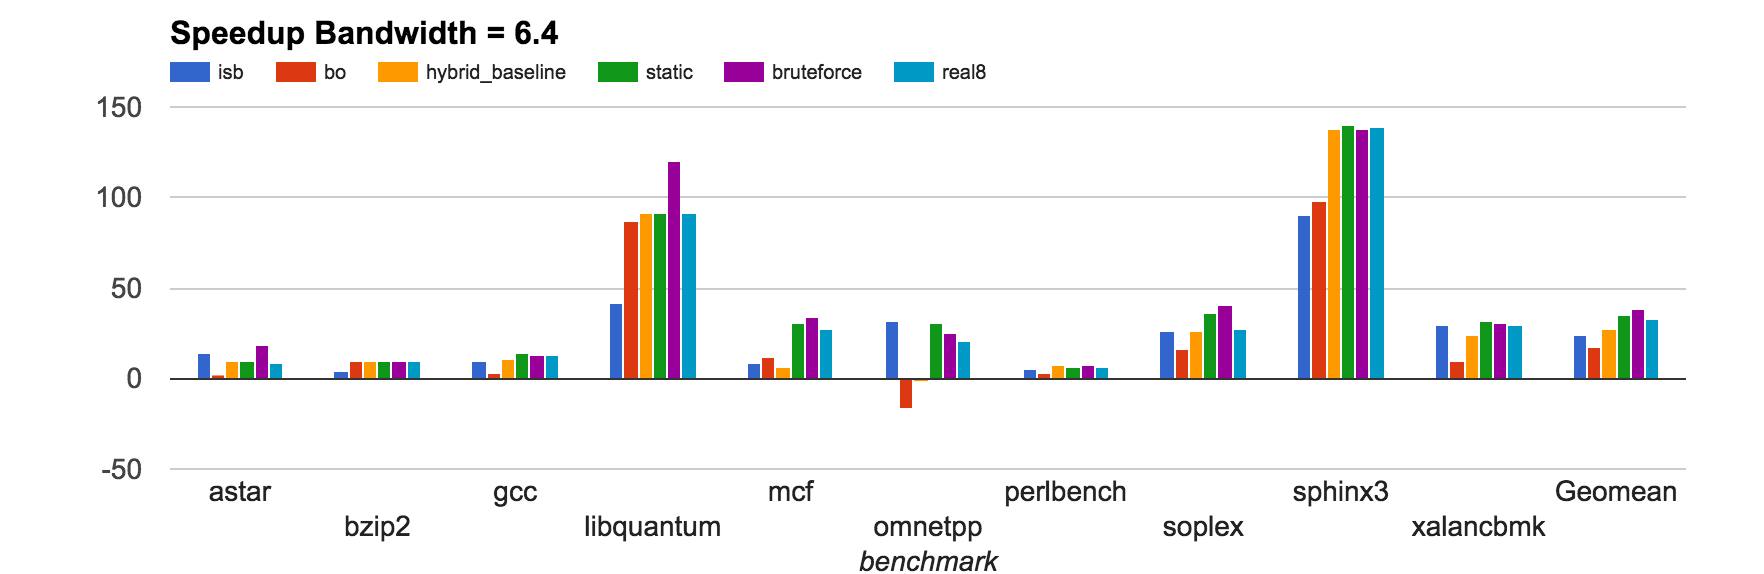
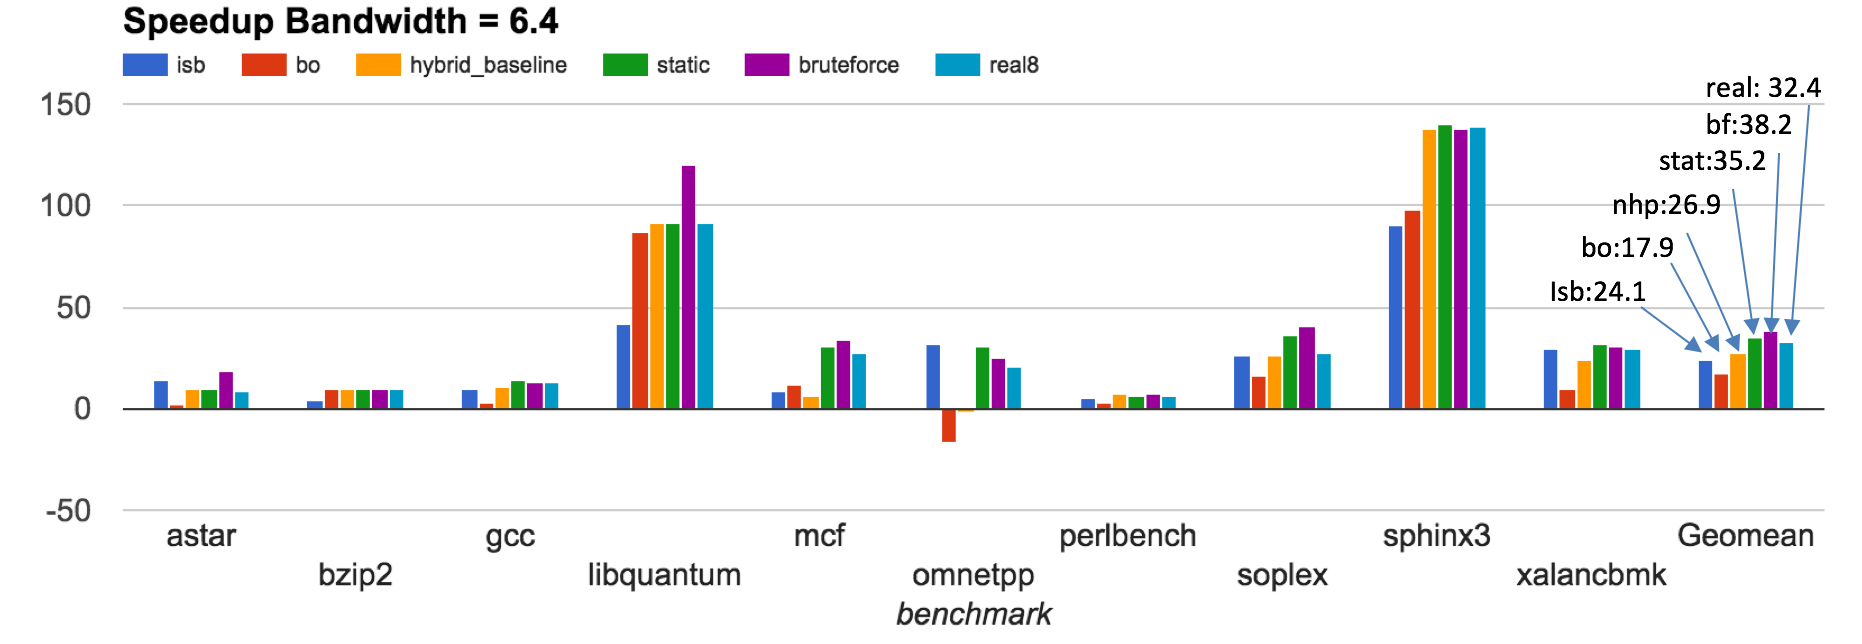
before a huge merge

Changed region(s): [[0.0, 0.0, 0.9977, 0.7108], [0.0312, 0.77, 0.9666, 1.0], [0.873, 0.2369, 0.9666, 0.2666]]

diff --git a/hybrid-prefetcher-report/section/headroom.tex b/hybrid-prefetcher-report/section/headroom.tex
@@ -1,6 +1,6 @@
 \section{Headroom Experiment}
 \label{sec:headroom}
-In this section, headroom experiment results are analyzed to guide our real hybrid prefetcher design. In section \ref{sec:headroomanalysis} we will talk about the potential of our design and the difference between two headroom test. In section \ref{sec:memorybandwidthissue}, one of the most influential factor, memory bandwidth, will be discussed in detail. Some other insights will be revealed in section \ref{sec:otherinsights}.
+In this section, headroom experiment results are analyzed to guide our dynamic hybrid prefetcher design. In section \ref{sec:headroomanalysis} we will talk about the potential of our design and the difference between two headroom test. In section \ref{sec:memorybandwidthissue}, one of the most influential factor, memory bandwidth, will be discussed in detail. Some other insights will be revealed in section \ref{sec:otherinsights}.
 
   \subsection{Headroom Result Analysis}
   \label{sec:headroomanalysis}
@@ -11,6 +11,14 @@ In this section, headroom experiment results are analyzed to guide our real hybr
 	   \caption{Headroom accuracy and coverage performance}
 	  \label{fig:headroom_acc_cov}
   \end{figure}
+
+  In Fig.\ref{fig:headroom_acc_cov}, the accuracy and coverage performance of \emph{ISB, BO, NHP, Static Analysis} and \emph{Brute Force Search}. Comparing \emph{NHP} with \emph{ISB, BO}, we found that the accuracy of \emph{NHP} is significantly lower than \emph{ISB}'s, while its coverage is higher than \emph{ISB}. It indicate that \emph{NHP} issued much more prefetches than \emph{ISB} or \emph{BO}. For \emph{static analysis} part, it achieves similar accuracy with \emph{ISB}'s, and similar coverage with \emph{NHP}'s. This is understandable since static analysis focus on static data files, making wise decisions is the only thing it can do. The \emph{Brute Force Search} method focuses on speedup most. Therefore, its accuracy and coverage performance are not as good as the static ones'. Because we use \emph{SNIPER} as our simulator, the accuracy and coverage keep the same even we change the bandwidth since no prefetch is abandoned.
+
+  Though accuracy and coverage are good metrics for evaluating prefetchers. The most import performance metric is speedup. The speedup numbers of different bandwidth are shown in Fig.\ref{fig:headroom_speedup}. Interestingly, we got results of different shapes when the bandwidth is different. \emph{ISB} has higher speedup during low bandwidth while \emph{BO} has higher during high bandwidth. The reason is that high bandwidth wouldn't give much punishment to useless prefetch while low bandwidth does. For \emph{NHP}, in both configuration it enjoys higher speedup. However, the headroom of 6.4GB/s bandwidth is more than 11\%, while only 4\% in 12.8GB/s bandwidth case. Another point worth attention is that though static method enjoys higher accuracy and coverage than the brute force one, \emph{Brute Force Search} still has better speed up. Intuitively, it is because some prefetches shouldn't have been issued by \emph{Static Analysis} due to high memory pressure at that point. The detail reason will be explained in section \ref{sec:memorybandwidthissue}.
+
+  In our later evaluation, we will choose 6.4GB/s as our bandwidth since the headroom is quite encouraging in that case.
+
+  %higher accuracy and coverage doesn't imply better speedup.
 
   \begin{figure}[ht!]
 	   \centering
@@ -24,3 +32,10 @@ In this section, headroom experiment results are analyzed to guide our real hybr
 
   \subsection{Some other insights}
   \label{sec:otherinsights}
+  Besides memory bandwidth factor, we have some other insights about these headroom experiments.
+  \begin{itemize}
+    \item Performance is input dependent. A well built benchmark set is important
+    \item The brute force experiments are not optimal, but they can still show the preference of each PC.
+    \item In the headroom experiment, PCs’ decisions are made offline and not changed during execution. And we have up to 12\% speedup headroom. If PC can make dynamic decisions, we may have more speedup.
+    \item Memory bandwidth pressure affects the prefetch performance a lot. It needs to be considered and measured in dynamic hybrid prefetching system.
+  \end{itemize}

diff --git a/hybrid-prefetcher-report/section/design.tex b/hybrid-prefetcher-report/section/design.tex
@@ -10,7 +10,7 @@
 
 Based on the introduction and motivation we demonstrated above, we design our headroom experiments and ``smart'' hybrid prefetcher system in Fig.\ref{fig:design_flow}.
 
-First, we will evaluate the individual performance of \emph{BO}, \emph{ISB} and \emph{NHP}. Note that here we measure performance using two different memory bandwidth configuration. 12.8 represents high memory bandwidth 12.8 GB/s and 6.4 represents low memory bandwidth 6.4 GB/s. The \emph{Brute Force Search} and \emph{Static Analysis} are both offline headroom designs which will be described in the following two sections. Briefly, \emph{Brute Force Search} tries each choice on each PC, and finds out the best decisions and optimal headroom. Static Analysis comes up with a heuristic. It uses the statistics of each PC from ISB, BO and naive hybrid experiments as input, and builds a strategy that makes decisions closest to \emph{Brute Force Search} thus achieves best speedup. Finally the Static Analysis guides the design of our final hybrid prefetch system.
+First, we will evaluate the individual performance of \emph{BO}, \emph{ISB} and \emph{NHP}. Note that here we measure performance using two different memory bandwidth configuration. 12.8 represents high memory bandwidth 12.8 GB/s and 6.4 represents low memory bandwidth 6.4 GB/s. The \emph{Brute Force Search} and \emph{Static Analysis} are both offline headroom designs which will be described in the following two sections. Briefly, \emph{Brute Force Search} tries each choice on each PC, and finds out the best decisions and optimal headroom. Static Analysis comes up with a heuristic. It uses the statistics of each PC from ISB, BO and naive hybrid experiments as input, and builds a strategy that makes decisions closest to \emph{Brute Force Search} thus achieves best speedup. Finally the Static Analysis guides the design of our final hybrid prefetch system, which will be explained in section \ref{sec:ourdesign}.
 
   \subsection{Brute Force Search}
   \label{sec:bruteforcesearch}

diff --git a/hybrid-prefetcher-report/section/result.tex b/hybrid-prefetcher-report/section/result.tex
@@ -1,4 +1,26 @@
 \section{Result Evaluation}
 \label{sec:result}
+In this section, we will analyze the performance of the dynamic hybrid prefetcher. In Fig.\ref{fig:final_acc_cov}, the accuracy and coverage data is displayed. The accuracy performance is similar to the one from \emph{Brute Force Search}, while much less than \emph{ISB}'s and \emph{Static Analysis}'s. The coverage performance is better than the one from \emph{Brute Force Search}, similar to \emph{ISB}'s and \emph{Static Analysis}'s. These are fairly good since before the first 1024 accesses of \emph{ISB} or first 512 accesses of \emph{BO}, the prefetcher acts as a naive hybrid prefetcher.
 
-The project
+\begin{figure}[ht!]
+   \centering
+   \includegraphics[width=1.0\textwidth]{images/final_acc_cov.png}
+   \caption{Accuracy and coverage performance of dynamic hybrid prefetcher}
+   \label{fig:final_acc_cov}
+\end{figure}
+
+In terms of speedup,
+
+\begin{figure}[ht!]
+   \centering
+   \includegraphics[width=1.0\textwidth]{images/final_speedup.png}
+   \caption{Speedup performance of dynamic hybrid prefetcher}
+   \label{fig:final_speedup}
+\end{figure}
+
+\begin{figure}[ht!]
+   \centering
+   \includegraphics[width=1.0\textwidth]{images/final_speedup_mem.png}
+   \caption{Speedup performance of dynamic hybrid prefetcher when consider memory pressure}
+   \label{fig:final_speedup_mem}
+\end{figure}

diff --git a/hybrid-prefetcher-report/section/dynamic_design.tex b/hybrid-prefetcher-report/section/dynamic_design.tex
@@ -2,3 +2,28 @@
 \label{sec:ourdesign}
 
 The project
+
+  \subsection{Storage Structure}
+  \label{sec:storestruct}
+  \begin{figure}[ht!]
+	   \centering
+	   \includegraphics[width=0.5\textwidth]{images/pc_table.png}
+	   \caption{Headroom speedup under different memory bandwidth}
+	   \label{fig:headroom_speedup}
+  \end{figure}
+
+  \begin{figure}[ht!]
+	   \centering
+	   \includegraphics[width=0.5\textwidth]{images/address_buf.png}
+	   \caption{Headroom speedup under different memory bandwidth}
+	   \label{fig:headroom_speedup}
+  \end{figure}
+
+  \subsection{Design Overview}
+  \label{sec:dynamicdesignoverview}
+  \begin{figure}[ht!]
+	   \centering
+	   \includegraphics[width=0.8\textwidth]{images/dynamic_design.png}
+	   \caption{Headroom speedup under different memory bandwidth}
+	   \label{fig:headroom_speedup}
+  \end{figure}

diff --git a/hybrid-prefetcher-report/main.tex b/hybrid-prefetcher-report/main.tex
@@ -72,9 +72,9 @@ urlcolor={black}
 \newpage
 \input{section/design}
 \newpage
-\input{section/headroom}
-\newpage
 \input{section/experimental_methodology}
+\newpage
+\input{section/headroom}
 \newpage
 \input{section/dynamic_design}
 \newpage
